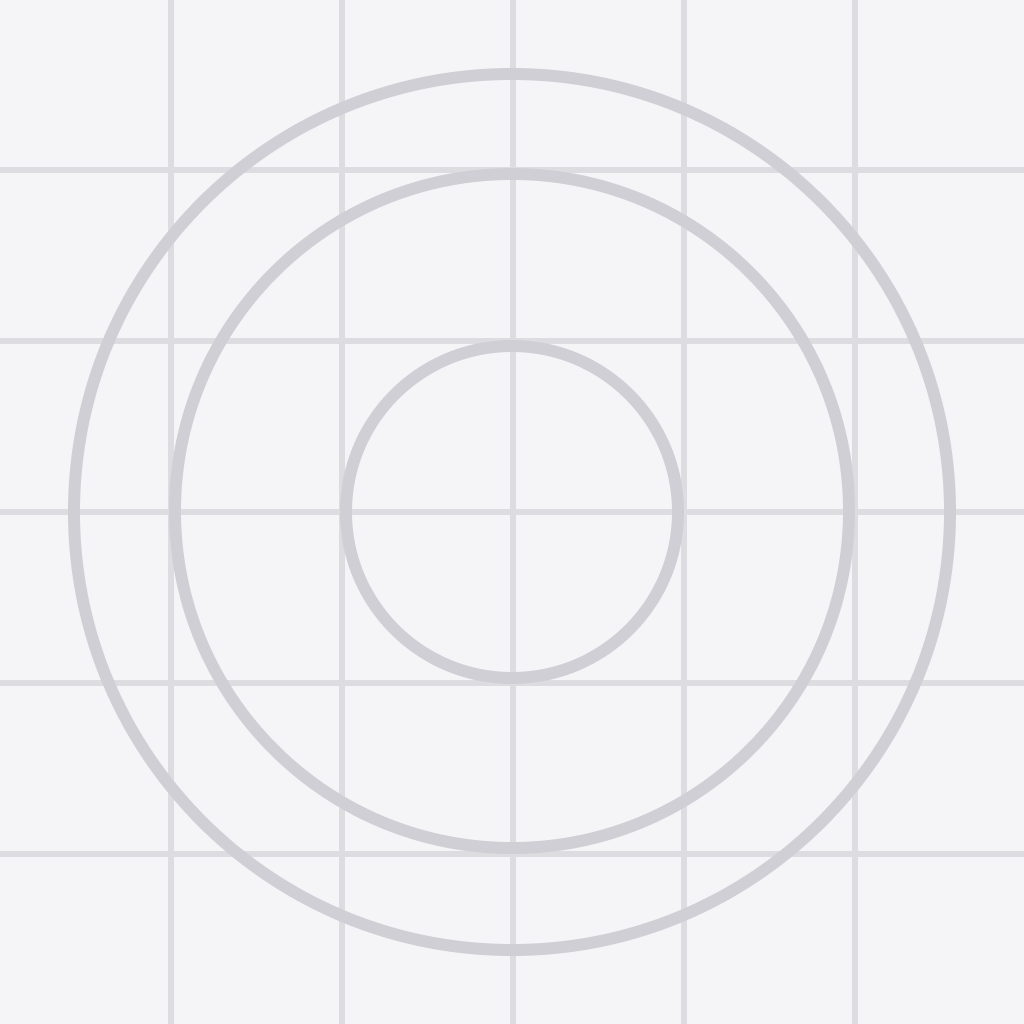
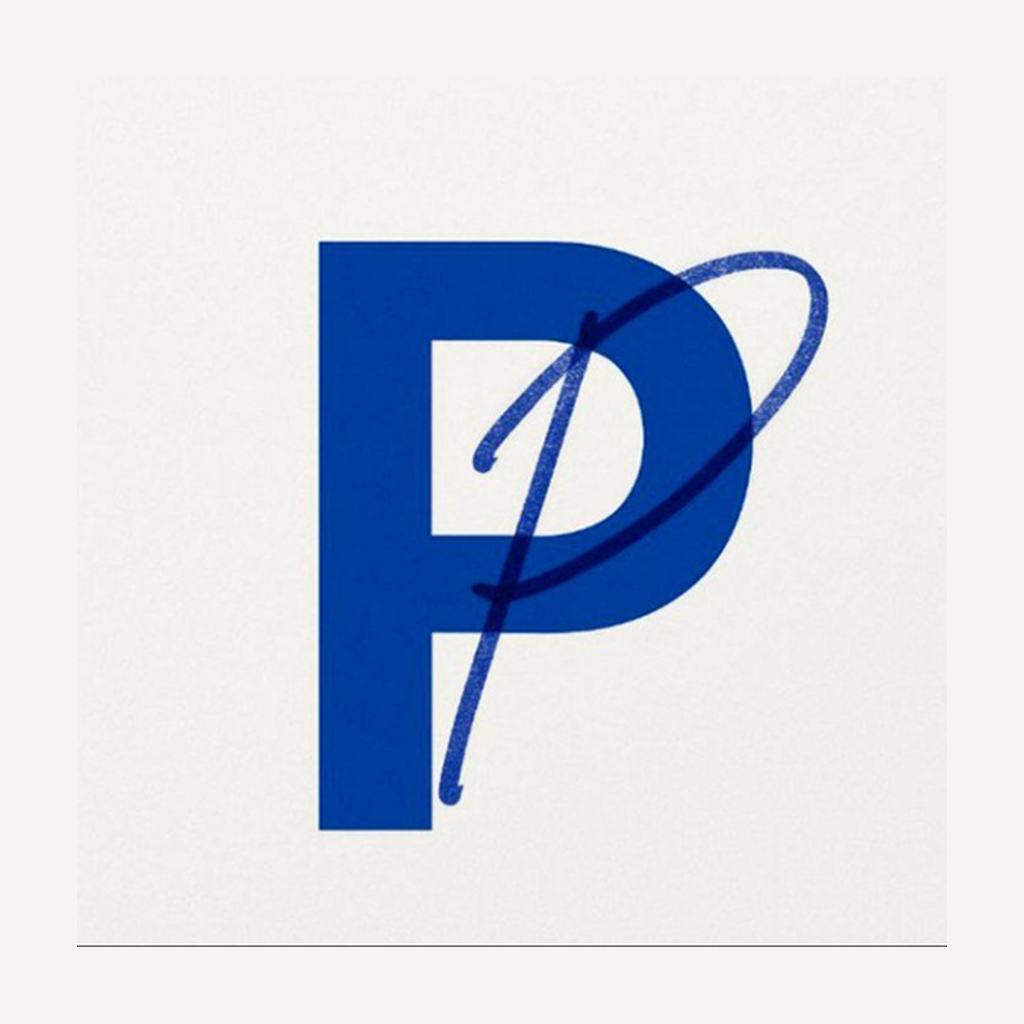
fix: minnor issues fix

diff --git a/frontend/src/screens/doctor/LabTestPickerScreen.tsx b/frontend/src/screens/doctor/LabTestPickerScreen.tsx
@@ -14,6 +14,7 @@ import {
   SafeAreaView,
   useWindowDimensions,
   StatusBar,
+  Modal,
 } from 'react-native';
 import { Ionicons } from '@expo/vector-icons';
 import { useTranslation } from 'react-i18next';
@@ -47,6 +48,7 @@ export default function LabTestPickerScreen({ navigation }: LabTestPickerScreenP
   const [isSearching, setIsSearching] = useState(false);
   const [selectedCategory, setSelectedCategory] = useState<string | null>(null);
   const [selectedTests, setSelectedTests] = useState<Map<string, SelectedLabTest>>(new Map());
+  const [showCategoryModal, setShowCategoryModal] = useState(false);
 
   // Custom test
   const [showCustomForm, setShowCustomForm] = useState(false);
@@ -290,33 +292,33 @@ export default function LabTestPickerScreen({ navigation }: LabTestPickerScreenP
         {isSearching && <ActivityIndicator size="small" color={COLORS.primary} />}
       </View>
 
-      {/* Category Filter Chips */}
-      <ScrollView
-        horizontal
-        showsHorizontalScrollIndicator={false}
-        contentContainerStyle={styles.categoryChips}
-      >
-        {LAB_TEST_CATEGORIES.map((category) => (
-          <TouchableOpacity
-            key={category}
-            style={[
-              styles.categoryChip,
-              selectedCategory === category && styles.categoryChipSelected,
-            ]}
-            onPress={() => handleSelectCategory(category)}
-            activeOpacity={0.7}
-          >
-            <Text
-              style={[
-                styles.categoryChipText,
-                selectedCategory === category && styles.categoryChipTextSelected,
-              ]}
-            >
-              {category}
+      {/* Category Dropdown Selector */}
+      <View style={[styles.dropdownContainer, { marginHorizontal: width < 360 ? SPACING.md : SPACING.lg }]}>
+        <TouchableOpacity
+          style={styles.dropdownSelector}
+          onPress={() => setShowCategoryModal(true)}
+          activeOpacity={0.7}
+        >
+          <View style={styles.dropdownLeft}>
+            <Ionicons name="funnel-outline" size={16} color={COLORS.primary} style={{ marginRight: 8 }} />
+            <Text style={styles.dropdownSelectorText}>
+              {selectedCategory ? `Category: ${selectedCategory}` : 'Filter by Category'}
             </Text>
+          </View>
+          <Ionicons name="chevron-down" size={18} color={COLORS.textMuted} />
+        </TouchableOpacity>
+        {selectedCategory && (
+          <TouchableOpacity
+            onPress={() => {
+              setSelectedCategory(null);
+              loadFrequentTests();
+            }}
+            style={styles.clearCategoryBtn}
+          >
+            <Ionicons name="close-circle" size={20} color={COLORS.error} />
           </TouchableOpacity>
-        ))}
-      </ScrollView>
+        )}
+      </View>
 
       {/* Custom form view */}
       {showCustomForm ? (
@@ -452,6 +454,84 @@ export default function LabTestPickerScreen({ navigation }: LabTestPickerScreenP
         </TouchableOpacity>
       </View>
     )}
+    {/* Category Selection Modal */}
+    <Modal
+      visible={showCategoryModal}
+      transparent
+      animationType="slide"
+      onRequestClose={() => setShowCategoryModal(false)}
+    >
+      <TouchableOpacity
+        style={styles.modalOverlay}
+        activeOpacity={1}
+        onPress={() => setShowCategoryModal(false)}
+      >
+        <View style={styles.modalSheet}>
+          <View style={styles.modalHeader}>
+            <Text style={styles.modalTitle}>Select Category</Text>
+            <TouchableOpacity onPress={() => setShowCategoryModal(false)}>
+              <Ionicons name="close" size={24} color={COLORS.text} />
+            </TouchableOpacity>
+          </View>
+
+          <ScrollView contentContainerStyle={styles.modalListContent} showsVerticalScrollIndicator={false}>
+            {/* Option for Show All */}
+            <TouchableOpacity
+              style={[
+                styles.categoryModalItem,
+                selectedCategory === null && styles.categoryModalItemSelected,
+              ]}
+              onPress={() => {
+                setSelectedCategory(null);
+                loadFrequentTests();
+                setShowCategoryModal(false);
+              }}
+            >
+              <Text
+                style={[
+                  styles.categoryModalItemText,
+                  selectedCategory === null && styles.categoryModalItemTextSelected,
+                ]}
+              >
+                All Categories
+              </Text>
+              {selectedCategory === null && (
+                <Ionicons name="checkmark" size={20} color={COLORS.primary} />
+              )}
+            </TouchableOpacity>
+
+            {LAB_TEST_CATEGORIES.map((category) => {
+              const isSelected = selectedCategory === category;
+              return (
+                <TouchableOpacity
+                  key={category}
+                  style={[
+                    styles.categoryModalItem,
+                    isSelected && styles.categoryModalItemSelected,
+                  ]}
+                  onPress={() => {
+                    handleSelectCategory(category);
+                    setShowCategoryModal(false);
+                  }}
+                >
+                  <Text
+                    style={[
+                      styles.categoryModalItemText,
+                      isSelected && styles.categoryModalItemTextSelected,
+                    ]}
+                  >
+                    {category}
+                  </Text>
+                  {isSelected && (
+                    <Ionicons name="checkmark" size={20} color={COLORS.primary} />
+                  )}
+                </TouchableOpacity>
+              );
+            })}
+          </ScrollView>
+        </View>
+      </TouchableOpacity>
+    </Modal>
     </SafeAreaView>
   );
 }
@@ -513,31 +593,93 @@ const styles = StyleSheet.create({
     paddingVertical: SPACING.md,
   },
 
-  // Category Chips
-  categoryChips: {
-    paddingHorizontal: SPACING.lg,
-    paddingBottom: SPACING.md,
+  // Dropdown Selector styles
+  dropdownContainer: {
+    flexDirection: 'row',
+    alignItems: 'center',
+    marginBottom: SPACING.md,
     gap: SPACING.sm,
   },
-  categoryChip: {
-    backgroundColor: COLORS.surfaceSecondary,
-    borderRadius: RADIUS.full,
-    paddingHorizontal: SPACING.lg,
-    paddingVertical: SPACING.sm,
-    borderWidth: 1,
+  dropdownSelector: {
+    flex: 1,
+    flexDirection: 'row',
+    alignItems: 'center',
+    justifyContent: 'space-between',
+    backgroundColor: COLORS.white,
+    borderRadius: RADIUS.md,
+    borderWidth: 1.5,
     borderColor: COLORS.border,
+    paddingHorizontal: SPACING.md,
+    paddingVertical: SPACING.md - 2,
+    ...SHADOWS.sm,
   },
-  categoryChipSelected: {
-    backgroundColor: COLORS.primary,
-    borderColor: COLORS.primary,
+  dropdownLeft: {
+    flexDirection: 'row',
+    alignItems: 'center',
   },
-  categoryChipText: {
-    fontSize: 13,
+  dropdownSelectorText: {
+    fontSize: 14,
     fontWeight: '600',
     color: COLORS.textSecondary,
   },
-  categoryChipTextSelected: {
-    color: COLORS.white,
+  clearCategoryBtn: {
+    padding: SPACING.xs,
+    justifyContent: 'center',
+    alignItems: 'center',
+  },
+  // Modal styles for category selection
+  modalOverlay: {
+    flex: 1,
+    backgroundColor: 'rgba(0,0,0,0.5)',
+    justifyContent: 'flex-end',
+  },
+  modalSheet: {
+    backgroundColor: COLORS.white,
+    borderTopLeftRadius: RADIUS.xl,
+    borderTopRightRadius: RADIUS.xl,
+    paddingTop: SPACING.lg,
+    paddingBottom: SPACING.xxl,
+    maxHeight: '70%',
+  },
+  modalHeader: {
+    flexDirection: 'row',
+    justifyContent: 'space-between',
+    alignItems: 'center',
+    paddingHorizontal: SPACING.xl,
+    paddingBottom: SPACING.md,
+    borderBottomWidth: 1,
+    borderBottomColor: COLORS.borderLight,
+  },
+  modalTitle: {
+    fontSize: 18,
+    fontWeight: '700',
+    color: COLORS.text,
+  },
+  modalListContent: {
+    paddingHorizontal: SPACING.lg,
+    paddingVertical: SPACING.sm,
+  },
+  categoryModalItem: {
+    flexDirection: 'row',
+    alignItems: 'center',
+    justifyContent: 'space-between',
+    paddingVertical: SPACING.md + 2,
+    paddingHorizontal: SPACING.md,
+    borderBottomWidth: 1,
+    borderBottomColor: COLORS.borderLight,
+  },
+  categoryModalItemSelected: {
+    backgroundColor: COLORS.primarySurface,
+    borderRadius: RADIUS.md,
+  },
+  categoryModalItemText: {
+    fontSize: 15,
+    color: COLORS.textSecondary,
+    fontWeight: '500',
+  },
+  categoryModalItemTextSelected: {
+    color: COLORS.primary,
+    fontWeight: '700',
   },
 
   // List